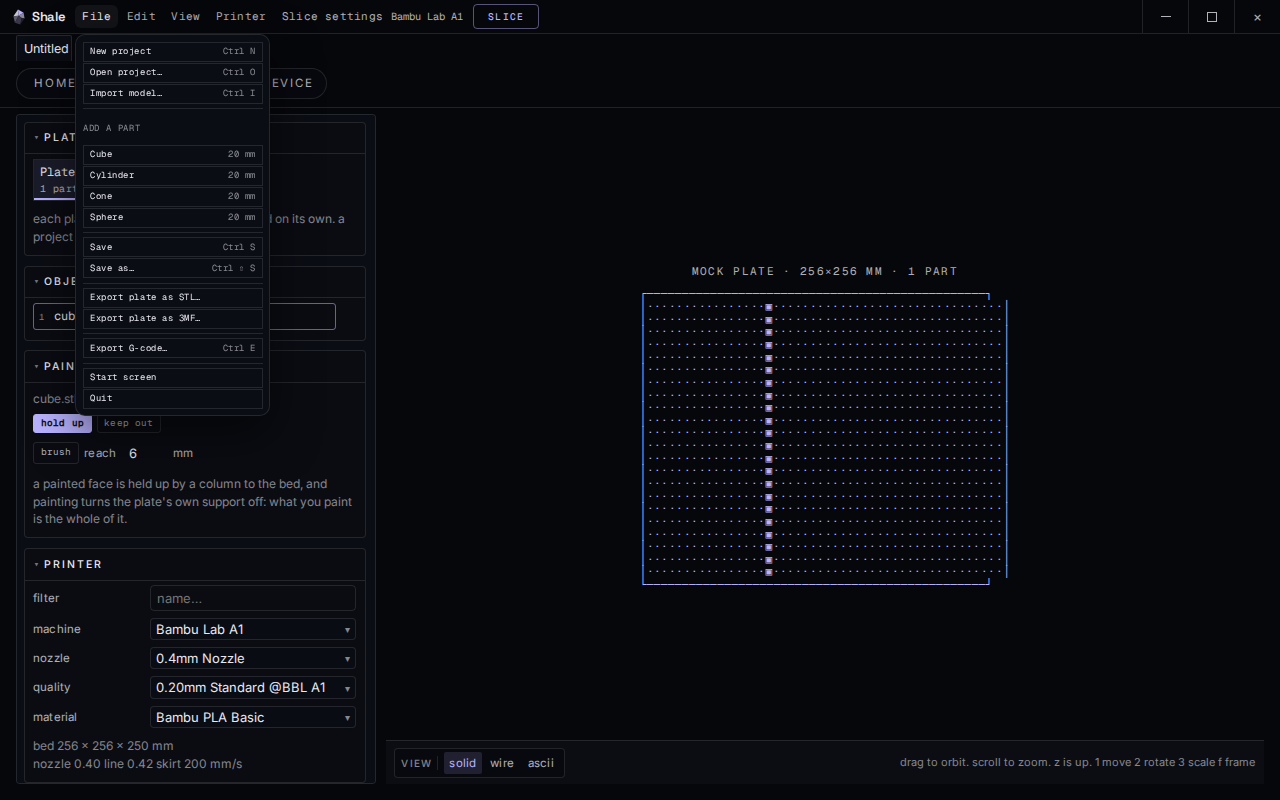
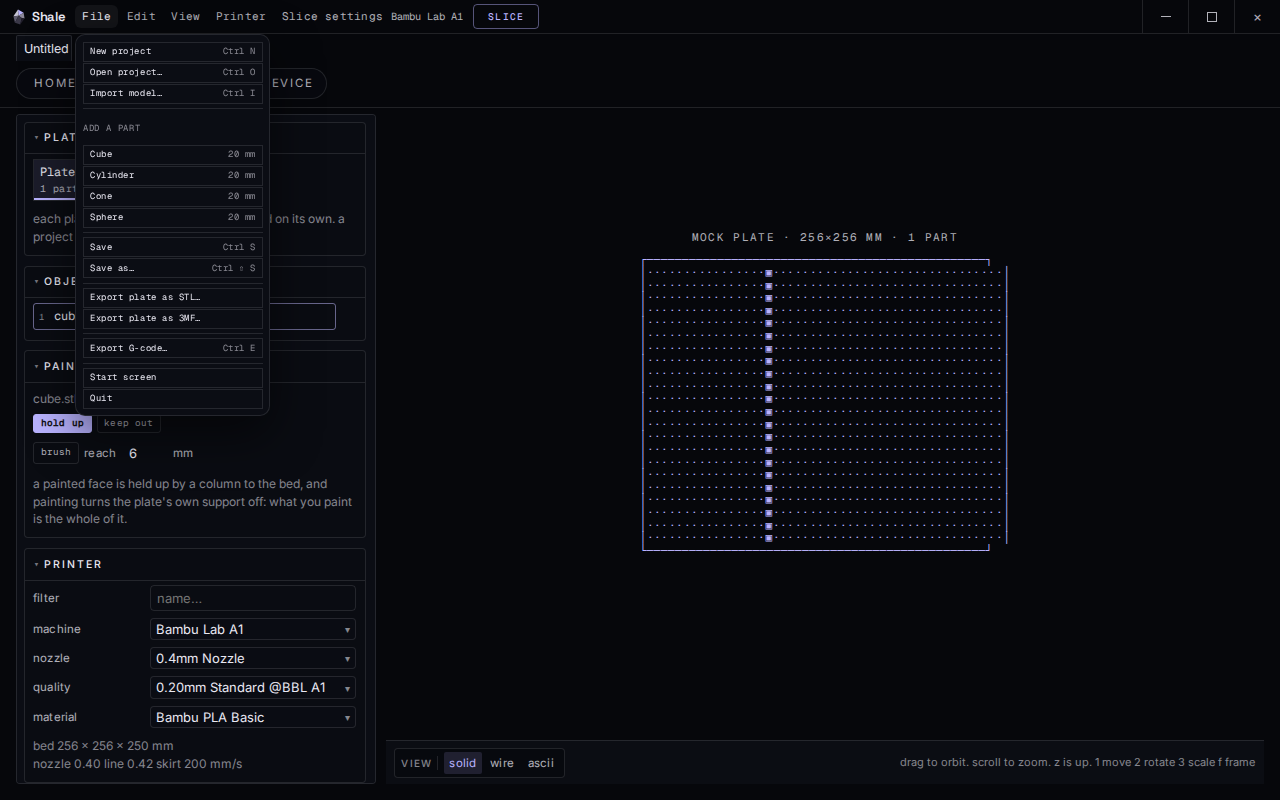
fix(desktop): dock slice summary in preview sidebar and fix overlays
Move the SLICED job stats into a sidebar panel with a proper two-column grid
so values stay inside the card at 1280×800. Remove the viewport-floating card
except the cost demo. Tighten legend, menu sheet, and search field overflow rules.

diff --git a/apps/desktop/src/App.tsx b/apps/desktop/src/App.tsx
@@ -3616,6 +3616,20 @@ export function App() {
           {/* Every slice is kept, so two outcomes can be put side by side
               instead of one overwriting the other. */}
           {pane === "preview" && (
+            <Frame title="sliced">
+              <JobSummary
+                layerCount={layerCount}
+                printSeconds={printSeconds}
+                filamentMetres={filamentMetres}
+                grams={grams}
+                estimate={estimate}
+                formatMoney={money}
+                formatClock={clockTime}
+              />
+            </Frame>
+          )}
+
+          {pane === "preview" && (
             <Frame title="slices">
               {history.length === 0 ? (
                 <p className="hint">no slices yet</p>
@@ -3796,67 +3810,17 @@ export function App() {
               onNone={() => setHiddenKinds(new Set(paths.map((path) => path.kind)))}
             />
           )}
-          {/* A result, not a setting: the card is Preview's. Prepare used to
-              carry it and showed the last job's numbers over an unsliced plate. */}
-          {preview && (
-          <div
-            className={status?.demo === "cost" ? "job-card demo-cost" : "job-card"}
-            data-sliced={layerCount > 0 ? "yes" : "no"}
-          >
-            {layerCount > 0 ? (
-              <>
-                <span className="job-state">sliced</span>
-                <dl>
-                  <div>
-                    <dt>time</dt>
-                    <dd>{printSeconds == null ? "—" : clockTime(printSeconds)}</dd>
-                  </div>
-                  <div>
-                    <dt>filament</dt>
-                    <dd>{filamentMetres == null ? "—" : `${filamentMetres.toFixed(1)} m`}</dd>
-                  </div>
-                  {grams != null && (
-                    <div>
-                      <dt>weight</dt>
-                      <dd>{grams < 10 ? grams.toFixed(1) : grams.toFixed(0)} g</dd>
-                    </div>
-                  )}
-                  <div>
-                    <dt>layers</dt>
-                    <dd>{layerCount}</dd>
-                  </div>
-                  {estimate && (
-                    <>
-                      <div>
-                        <dt>filament cost</dt>
-                        <dd>{money(estimate.filament_cost)}</dd>
-                      </div>
-                      <div>
-                        <dt>energy</dt>
-                        <dd>
-                          {estimate.kwh.toFixed(3)} kWh · {money(estimate.energy_cost)}
-                        </dd>
-                      </div>
-                      {estimate.spools.map((spool) => (
-                        <div key={spool.slot}>
-                          <dt>{`spool ${spool.slot + 1}`}</dt>
-                          <dd>
-                            {spool.grams.toFixed(0)} g · {money(spool.cost)}
-                          </dd>
-                        </div>
-                      ))}
-                      <div className="job-total">
-                        <dt>total</dt>
-                        <dd>{money(estimate.total)}</dd>
-                      </div>
-                    </>
-                  )}
-                </dl>
-              </>
-            ) : (
-              <span className="job-state quiet">not sliced</span>
-            )}
-          </div>
+          {preview && status?.demo === "cost" && (
+            <JobSummary
+              variant="demo"
+              layerCount={layerCount}
+              printSeconds={printSeconds}
+              filamentMetres={filamentMetres}
+              grams={grams}
+              estimate={estimate}
+              formatMoney={money}
+              formatClock={clockTime}
+            />
           )}
           <Viewport
             width={bed.width}
@@ -4052,4 +4016,81 @@ function messageOf(err: unknown): string {
   if (typeof err === "string") return err;
   if (err instanceof Error) return err.message;
   return "Something went wrong";
+}
+
+function JobSummary({
+  layerCount,
+  printSeconds,
+  filamentMetres,
+  grams,
+  estimate,
+  formatMoney,
+  formatClock,
+  variant = "panel",
+}: {
+  layerCount: number;
+  printSeconds: number | null;
+  filamentMetres: number | null;
+  grams: number | null;
+  estimate: CostEstimate | null;
+  formatMoney: (value: number) => string;
+  formatClock: (seconds: number) => string;
+  variant?: "panel" | "demo";
+}) {
+  const className =
+    variant === "demo" ? "job-card demo-cost" : "job-card job-card--panel";
+  if (layerCount <= 0) {
+    return <span className="job-state quiet">not sliced</span>;
+  }
+  return (
+    <div className={className} data-sliced="yes">
+      {variant !== "panel" && <span className="job-state">sliced</span>}
+      <dl>
+        <div>
+          <dt>time</dt>
+          <dd>{printSeconds == null ? "—" : formatClock(printSeconds)}</dd>
+        </div>
+        <div>
+          <dt>length</dt>
+          <dd>{filamentMetres == null ? "—" : `${filamentMetres.toFixed(1)} m`}</dd>
+        </div>
+        {grams != null && (
+          <div>
+            <dt>weight</dt>
+            <dd>{grams < 10 ? grams.toFixed(1) : grams.toFixed(0)} g</dd>
+          </div>
+        )}
+        <div>
+          <dt>layers</dt>
+          <dd>{layerCount}</dd>
+        </div>
+        {estimate && (
+          <>
+            <div>
+              <dt>material</dt>
+              <dd>{formatMoney(estimate.filament_cost)}</dd>
+            </div>
+            <div>
+              <dt>energy</dt>
+              <dd>
+                {estimate.kwh.toFixed(3)} kWh · {formatMoney(estimate.energy_cost)}
+              </dd>
+            </div>
+            {estimate.spools.map((spool) => (
+              <div key={spool.slot}>
+                <dt>{`spool ${spool.slot + 1}`}</dt>
+                <dd>
+                  {spool.grams.toFixed(0)} g · {formatMoney(spool.cost)}
+                </dd>
+              </div>
+            ))}
+            <div className="job-total">
+              <dt>total</dt>
+              <dd>{formatMoney(estimate.total)}</dd>
+            </div>
+          </>
+        )}
+      </dl>
+    </div>
+  );
 }

diff --git a/apps/desktop/src/styles.css b/apps/desktop/src/styles.css
@@ -99,15 +99,13 @@ button:focus-visible, input:focus-visible, select:focus-visible {
   width: 100%;
   height: 100%;
   min-height: 320px;
-  padding: 1.5rem 1rem 7.5rem;
+  padding: 1.25rem 1rem 6.5rem;
   box-sizing: border-box;
   background: #06070b;
   color: var(--ink-2);
 }
 .plate[data-preview="yes"] .viewport-mock {
-  justify-content: flex-start;
-  padding-top: 2rem;
-  padding-bottom: 9.5rem;
+  padding: 1.25rem 1rem 6.75rem;
 }
 .viewport-mock-meta {
   margin: 0 0 0.6rem;
@@ -1565,10 +1563,10 @@ button.recent-row.dim { color: var(--ink-3); }
 .process-preset.on { border-color: var(--accent); color: var(--accent); }
 
 .process-tools { display: flex; gap: 0.5rem; align-items: center; padding: 0.5rem 0; }
-.process-search { flex: 1 1 12rem; min-width: 10rem; }
+.process-search { flex: 1 1 14rem; min-width: 12rem; }
 .process-search input {
   width: 100%;
-  min-width: 9rem;
+  min-width: 11rem;
   background: transparent;
   border: 1px solid var(--line);
   color: var(--ink);
@@ -2087,18 +2085,21 @@ button.recent-row.dim { color: var(--ink-3); }
 .job-card {
   position: absolute;
   left: 1rem;
-  bottom: 5.25rem;
+  top: 1rem;
   z-index: 4;
   display: flex;
   flex-direction: column;
   gap: 0.35rem;
-  min-width: 9.5rem;
-  max-width: 13.5rem;
-  padding: 0.7rem 0.9rem 0.8rem;
-  background: color-mix(in srgb, var(--panel) 88%, transparent);
+  box-sizing: border-box;
+  width: 20rem;
+  min-width: 20rem;
+  max-width: 20rem;
+  padding: 0.7rem 0.85rem 0.8rem;
+  background: color-mix(in srgb, var(--panel) 92%, transparent);
   border: 1px solid var(--line);
   backdrop-filter: blur(6px);
   pointer-events: auto;
+  overflow: hidden;
 }
 
 .job-state {
@@ -2111,14 +2112,19 @@ button.recent-row.dim { color: var(--ink-3); }
 .job-state.quiet { color: var(--ink-3); letter-spacing: 0.18em; }
 
 .job-card dl {
-  display: grid;
-  grid-template-columns: auto auto;
-  gap: 0.15rem 0.9rem;
+  display: flex;
+  flex-direction: column;
+  gap: 0.22rem;
   margin: 0;
+  width: 100%;
   font-variant-numeric: tabular-nums;
 }
 .job-card dl > div {
-  display: contents;
+  display: grid;
+  grid-template-columns: 6.75rem minmax(0, 1fr);
+  column-gap: 0.5rem;
+  align-items: baseline;
+  width: 100%;
 }
 .job-total dt,
 .job-total dd {
@@ -2128,9 +2134,11 @@ button.recent-row.dim { color: var(--ink-3); }
 .job-card dt {
   font-family: var(--prose);
   font-size: 10px;
-  letter-spacing: 0.16em;
+  letter-spacing: 0.12em;
   text-transform: uppercase;
   color: var(--ink-3);
+  white-space: nowrap;
+  min-width: 0;
 }
 .job-card dd {
   margin: 0;
@@ -2138,6 +2146,23 @@ button.recent-row.dim { color: var(--ink-3); }
   color: var(--ink);
   text-align: right;
   white-space: nowrap;
+  min-width: 0;
+}
+.job-card--panel {
+  position: static;
+  width: auto;
+  min-width: 0;
+  max-width: none;
+  padding: 0;
+  background: transparent;
+  border: 0;
+  box-shadow: none;
+  backdrop-filter: none;
+  overflow: visible;
+  pointer-events: auto;
+}
+.panel .job-card--panel dl > div {
+  grid-template-columns: minmax(5.5rem, 6.75rem) minmax(0, 1fr);
 }
 
 /* ── the features in the toolpath ──────────────────────────────────────────
@@ -2147,14 +2172,19 @@ button.recent-row.dim { color: var(--ink-3); }
 
 .legend {
   position: absolute;
-  right: 1.1rem;
-  top: 1.1rem;
+  right: 1rem;
+  top: 1rem;
   z-index: 4;
   display: flex;
   flex-direction: column;
+  box-sizing: border-box;
   min-width: 10.5rem;
+  max-width: min(12.5rem, calc(100% - 20rem));
+  max-height: min(16rem, calc(100% - 8rem));
+  overflow-x: hidden;
+  overflow-y: auto;
   padding: 0.5rem 0.35rem 0.45rem;
-  background: color-mix(in srgb, var(--panel) 88%, transparent);
+  background: color-mix(in srgb, var(--panel) 92%, transparent);
   border: 1px solid var(--line);
   backdrop-filter: blur(6px);
 }

diff --git a/apps/desktop/src/themes/ui-polish.css b/apps/desktop/src/themes/ui-polish.css
@@ -365,34 +365,47 @@ textarea {
   box-shadow: 0 8px 28px rgba(0, 0, 0, 0.35);
   pointer-events: auto;
 }
-.job-card {
-  left: 1rem;
-  right: auto;
-  top: auto;
-  bottom: 5.25rem;
-  max-width: 13.5rem;
-}
-.legend {
-  top: 1rem;
-  right: 1rem;
-  max-height: min(16rem, calc(100% - 7rem));
-  overflow-y: auto;
-}
 .job-card.demo-cost {
   border-radius: var(--radius-lg);
   box-shadow: var(--shadow-float);
-  bottom: auto;
   top: 50%;
+  left: 50%;
+  right: auto;
+  bottom: auto;
   transform: translate(-50%, -50%);
-}
-.plate[data-preview="yes"] .viewport-mock {
-  padding: 0.5rem 1rem 2rem;
+  min-width: 22rem;
+  max-width: min(28rem, calc(100vw - 4rem));
 }
 .plate[data-preview="yes"] .viewport-mock-meta {
-  margin-top: 0.25rem;
-  max-width: min(28rem, 70%);
+  max-width: min(24rem, calc(100% - 2rem));
   text-align: center;
   line-height: 1.35;
+}
+
+/* Overlays and sheets: contain text at laptop widths. */
+.menu-sheet {
+  max-width: min(22rem, calc(100vw - 2rem));
+  overflow-x: hidden;
+}
+.menu-sheet.wide,
+.menu-sheet.settings-sheet {
+  max-width: min(46rem, calc(100vw - 2rem));
+}
+.menu-sheet button,
+.menu-row {
+  min-width: 0;
+}
+.banner.floating {
+  max-width: calc(100% - 3.5rem);
+  overflow: auto;
+}
+.legend-row span {
+  overflow: hidden;
+  text-overflow: ellipsis;
+  white-space: nowrap;
+}
+.legend-row em {
+  flex: 0 0 auto;
 }
 
 .legend-row {
